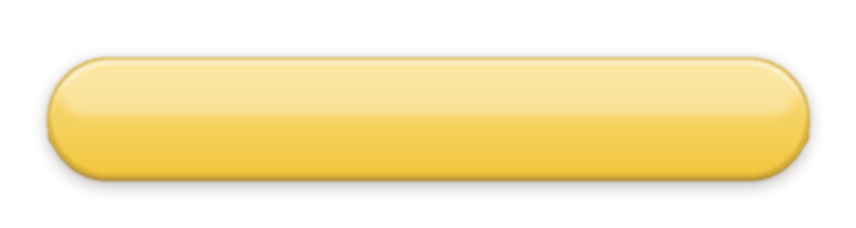
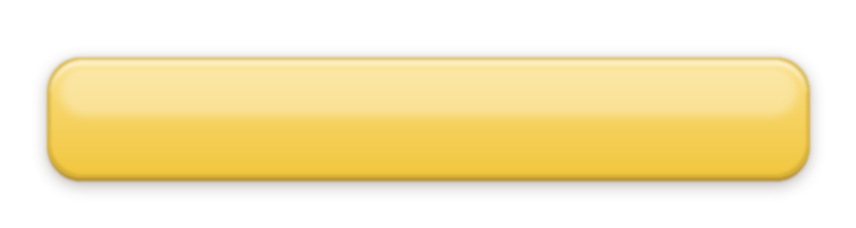
Hauptmenü: Knöpfe weniger rund (Lucas Wunsch)
Ecken mit 24 % der Höhe statt halber Höhe (16 statt 33 px).

Claude-Session: https://claude.ai/code/session_01PSZ5jd79U9dVsko8UYPXXi

diff --git a/Tools/menu/menu_art.py b/Tools/menu/menu_art.py
@@ -42,6 +42,8 @@ BUTTON_LIP = 7
 SMALL_LIP = 6
 NOTE_LIP = 8
 PRESSED_LIP = 2
+# Button corners as a share of the height (Luca: less round than a pill).
+CORNER = 0.24
 
 
 def mix(a, b, t):
@@ -149,10 +151,10 @@ def button(state, w=380, h=66, lip=BUTTON_LIP):
     """Idle cream, under the pointer yellow, pressed yellow and sunk in."""
     if state == 'idle':
         face = (mix(CREAM, WHITE, 0.8), mix(CREAM, WHITE, 0.15))
-        pic, mask = slab(w, h, face, lip, h // 2, gloss=70)
+        pic, mask = slab(w, h, face, lip, round(h * CORNER), gloss=70)
     else:
         face = (mix(YELLOW, WHITE, 0.35), shade(YELLOW, 0.97))
-        pic, mask = slab(w, h, face, lip, h // 2, sunk=lip - PRESSED_LIP if state == 'down' else 0, gloss=80)
+        pic, mask = slab(w, h, face, lip, round(h * CORNER), sunk=lip - PRESSED_LIP if state == 'down' else 0, gloss=80)
     return shadow(pic, mask, dy=4 if state != 'down' else 2, radius=4, strength=80)
 
 
